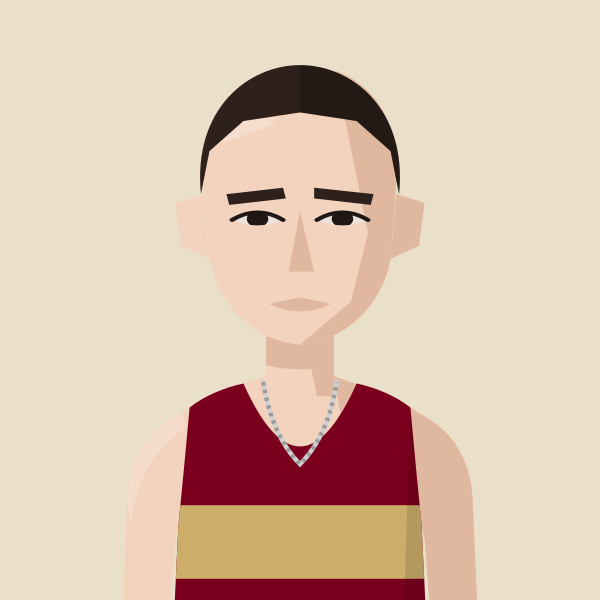
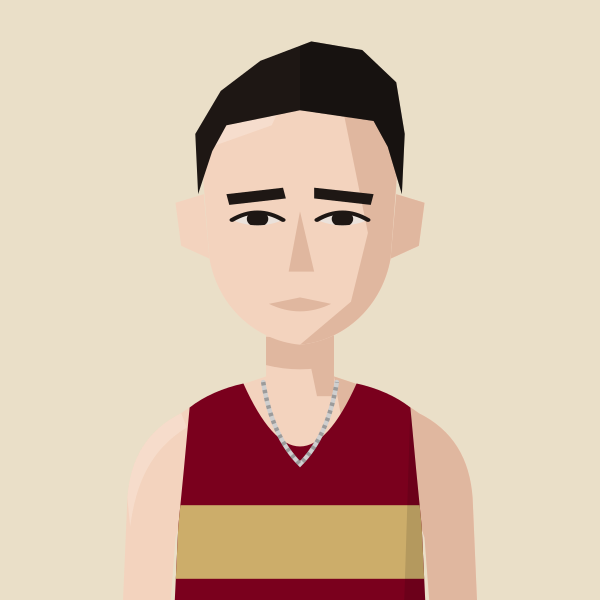
Eoin Molloy bigger hair; add Matthew Houchell, Ben Clarke, Benjamin Hilson
Claude-Session: https://claude.ai/code/session_01MgmDWhFqnSSnP4iBLKXUZC

Changed region(s): [[0.36, 0.06, 0.69, 0.33], [0.3, 0.18, 0.39, 0.33], [0.39, 0.18, 0.42, 0.21]]

diff --git a/files/index.html b/files/index.html
@@ -573,11 +573,11 @@ const LoadingVests=()=>{
 const PORTRAIT_CLUBS=new Set(['BEL','KEN','THH','HHH','H/W','SLH','G&G','RAN','C/C','DUL','HOL','WAL','CRO','WOK','E&E','FUL','SOC','BOX','BOH','AFD','SUR','MIT','REI','DMV','STR','W4H','W/W','K&P','S&D','SEL','DWN','FOT','LCR','ADV','262','MPA','BAC','OME','VAC','HER']);
 // Superstar portraits: every spelling of the athlete's name used in the data -> file in portraits/athletes/
 const PORTRAITS=(()=>{const m={};const add=(file,club,...names)=>names.forEach(n=>m[n.toLowerCase()]={file,club});
-add('kitty-shepherd-cross','BEL','Kitty Shepherd-Cross','Kitty Shepherd Cross');add('jack-kavanagh','HOL','Jack Kavanagh');add('sam-bramwell','HHH','Sam Bramwell');add('suzie-harvey','G&G','Suzie Harvey');add('freddie-hessian','H/W','Freddie Hessian');add('jamie-crowe','H/W','Jamie Crowe');add('sam-gebreselassie','BEL','Samuel Gebreselassie','Sam Gebreselassie');add('jack-brotchie','HHH','Jack Brotchie');add('jack-millar','THH','Jack Millar');add('lucy-jones','HHH','Lucy Jones');add('alex-milne','H/W','Alex Milne');add('josh-trigwell','BEL','Josh Trigwell');add('mack-downie','BEL','Mack Downey','Mack Downie');add('george-ogden','SLH','George Ogden');add('stuart-mccallum','H/W','Stuart McCallum');add('andrew-penney','H/W','Andrew Penney');add('jeremy-dempsey','THH','Jeremy Dempsey');add('henry-hart','BEL','Henry Hart');add('john-sanderson','G&G','John Sanderson');add('andy-fyfe','BEL','Andrew Fyfe','Andy Fyfe');add('saron-haileselase','BEL','Saron Haileselase');add('paskar-owor','BEL','Paskar Owor');add('ruby-carter','H/W','Ruby Carter');add('tom-foster','G&G','Tom Foster');add('mark-tennyson','G&G','Mark Tennyson');add('richard-ollington','THH','Richard Ollington');add('james-preston','BEL','James Preston');add('daniel-wolff','BEL','Daniel Wolff');add('jonny-scott','BEL','Jonathan Scott','Jonny Scott');add('josh-mitchell','BEL','Josh Mitchell');add('dylan-evans','BEL','Dylan Evans');add('morgan-roberts','HHH','Morgan Roberts');add('fred-slemeck','H/W','Fred Slemeck','Frederick Slemeck');add('matthew-edgar','BEL','Matthew Edgar');add('sam-sommerville','BEL','Sam Sommerville');add('richard-mcdowell','H/W','Richard McDowell');add('margaret-coogan','HHH','Margaret Coogan');add('owen-hind','KEN','Owen Hind','Owen Hinds');add('indy-barnes','THH','Indy Barnes');add('conall-mcnally','BEL','Conall McNally');add('rowan-board','HHH','Rowan Board');add('andy-weir','THH','Andy Weir','Andrew Weir');add('neil-chisholm','THH','Neil Chisholm','Neal Chisholm');add('pancho-panchev','H/W','Pancho Panchev');add('adrien-royer','G&G','Adrien Royer');add('rob-kelly','BEL','Robert Kelly','Rob Kelly');add('alex-janiaud','BEL','Alex Janiaud');add('tom-renshaw','THH','Thomas Renshaw','Tom Renshaw');add('jack-ramm','DUL','Jack Ramm');add('findlay-dyer','BEL','Findlay Dyer');add('james-blackwood','DUL','James Blackwood');add('sonny-nicoll','H/W','Sonny Nicoll');add('anisse-ismaili','THH','Anisse Ismaili');add('caleb-hathaway','HHH','Caleb Hathaway');add('barnaby-day','KEN','Barnaby Day');add('simon-coppard','BEL','Simon Coppard');add('ronan-tanguy','HHH','Ronan Tanguy');add('chris-threadgold','BEL','Chris Threadgold');add('mathew-speed','KEN','Mathew Speed','Matthew Speed');add('john-lethbridge','THH','John Lethbridge');add('oliver-fox','THH','Oliver Fox');add('jack-woods','HOL','Jack Woods');add('larry-ryan','BEL','Larry Ryan');add('ethan-mccolgan','THH','Ethan McColgan');add('jonathan-collier','KEN','Jonathan Collier');add('andrew-green','HOL','Andrew Green','Andy Green');add('fintan-pearce','BEL','Fintan Pearce');add('daniel-shaw','HHH','Daniel Shaw');add('sam-tyas','BEL','Sam Tyas');add('tom-austin','HHH','Tom Austin');add('ian-ellwood','KEN','Ian Ellwood');add('rian-mccawley','BEL','Rian McCawley');add('kieran-barnes','HOL','Kieran Barnes');add('ed-mallett','H/W','Ed Mallett','Edward Mallett');add('john-hutchins','WOK','John Hutchins');add('george-gathercole','THH','George Gathercole');add('nick-lightfoot','G&G','Nick Lightfoot');add('eoin-brady','H/W','Eoin Brady');add('james-stockings','H/W','James Stockings');add('jack-hobden','H/W','Jack Hobden');add('hugo-hewitt','HOL','Hugo Hewitt');add('zach-nolan','BEL','Zach Nolan');add('isaac-lutaya','H/W','Isaac Lutaya');add('oliver-young','BEL','Oliver Young');add('ben-racle','KEN','Ben Racle');add('josh-snow','BEL','Josh Snow');add('oliver-reynolds','BEL','Oliver Reynolds');add('aaron-wilson','DUL','Aaron Wilson');add('liam-burthem','HHH','Liam Burthem');add('dan-pettitt','KEN','Dan Pettitt');add('bob-holt','H/W','Bob Holt');add('dave-holt','H/W','Dave Holt');add('mike-fuller','H/W','Mike Fuller');add('gerry-north','BEL','Gerry North');add('steve-gardner','BEL','Steve Gardner');add('alex-yee','KEN','Alex Yee');add('phil-wicks','BEL','Phil Wicks');add('john-gilbert','KEN','John Gilbert','Jonathan Gilbert');add('chris-busaileh','KEN','Chris Busaileh');add('jim-allchin','KEN','Jim Allchin');add('finn-johnson','H/W','Finn Johnson');add('will-cockerell','BEL','William Cockerell','Will Cockerell');add('nick-goolab','BEL','Nick Goolab');add('arne-dumez','BEL','Arne Dumez');add('geoff-jerwood','HHH','Geoff Jerwood','G Jerwood');add('alex-lee','HHH','Alex Lee');add('benedict-whitby','HHH','Benedict Whitby');add('falilou-kebe','BEL','Falilou Kebe');add('jack-dickson','H/W','Jack Dickson');add('charlie-dickinson','BEL','Charlie Dickinson','C Dickinson');add('phil-swinburn','HOL','Phil Swinburn');add('rob-armstrong','DUL','Rob Armstrong');add('ashley-goncalves','HHH','Ashley Goncalves');add('eddie-jodrell','BEL','Eddie Jodrell');add('thomas-gandee','BEL','Thomas Gandee');add('max-milarvie','DUL','Max Milarvie');add('alex-lennon','BEL','Alex Lennon');add('james-hoad','THH','James Hoad');add('william-gardner','BEL','William Gardner');add('paddy-roddy','THH','Paddy Roddy','PADDY RoDDY');add('simon-waterhouse','BEL','Simon Waterhouse');add('conall-whelan','BEL','Conall Whelan');add('simon-williams','BEL','Simon Williams');add('christian-lee','HOL','Christian Lee');add('sean-cordon','DUL','Sean Cordon','sean cordon');add('michael-mccarthy','BEL','Michael McCarthy','Michael Mccarthy');add('jeff-cunningham','HHH','Jeff Cunningham');add('sam-peters','H/W','Sam Peters');add('ryan-hickey','HHH','Ryan Hickey');add('ben-scott','BEL','Ben Scott');add('tom-gifford','BEL','Tom Gifford');add('valentin-rigori','BEL','Valentin Rigori');add('david-grima','H/W','David Grima');add('deron-fagan','HHH','Deron Fagan');add('lee-lintern','G&G','Lee Lintern');add('ian-acreman','G&G','Ian Acreman');add('alex-howard','THH','Alex Howard');add('james-hancock','BEL','James Hancock');add('nick-morris','BEL','Nick Morris');add('richard-sun','H/W','Richard Sun');add('jonathan-cocker','G&G','Jonathan Cocker');add('isobel-hodder','BEL','Isobel Hodder');add('emma-howsham','G&G','Emma Howsham');add('eilidh-hide','BEL','Eilidh Hide');add('karen-xiang','BEL','Karen Xiang');add('claire-grima','H/W','Claire Grima');add('emma-gordon','BEL','Emma Gordon');add('emily-lowery','BEL','Emily Lowery');add('felicity-harrison','BEL','Felicity Harrison');add('alice-martin','HOL','Alice Martin');add('juliet-hodder','BEL','Juliet Hodder');add('abbie-bulbulian','C/C','Abbie Bulbulian');add('lara-mangan','BEL','Lara Mangan');add('clare-elms','KEN','Clare Elms');add('james-nutt','HHH','James Nutt');add('colin-high','G&G','Colin High');add('gavin-eccles','BEL','Gavin Eccles');add('nicholas-torry','KEN','Nicholas Torry');add('samuel-dames','KEN','Samuel Dames');add('tom-lole','BEL','Tom Lole');add('will-marshall','BEL','Will Marshall');add('stephen-mcleod','HHH','Stephen McLeod');add('rory-orsborn','HHH','Rory Orsborn');add('thomas-dugre','BEL','Thomas Dugre');add('arthur-peel','BEL','Arthur Peel');add('angus-lamb','BEL','Angus Lamb');add('andrew-warburton','HHH','Andrew Warburton');add('robert-laing','KEN','Robert Laing');add('toby-cooke','H/W','Toby Cooke');add('harrison-hayman','SLH','Harrison Hayman');add('edward-chuck','DUL','Edward Chuck');add('robert-sesemann','KEN','Robert Sesemann');add('eoin-molloy','BEL','Eoin Molloy');add('ollie-garrod','BEL','Ollie Garrod');add('ruby-whyte-wilding','BEL','Ruby Whyte-Wilding');add('sophie-tooley','HHH','Sophie Tooley');add('catherine-kandie','KEN','Catherine Kandie');add('olivia-stillman','HHH','Olivia Stillman');add('alex-gandee','BEL','Alex Gandee');add('billie-mcclosky','BEL','Billie McClosky');add('lisa-bailey','STR','Lisa Bailey');add('amy-clements','KEN','Amy Clements');add('bethanie-murray','THH','Bethanie Murray');add('evie-warren','G&G','Evie Warren');add('lucy-peters','BEL','Lucy Peters');add('emma-lord','H/W','Emma Lord');add('alice-bridger-morales','HHH','Alice Bridger Morales');add('emily-bradley','BEL','Emily Bradley');add('isabelle-pickett','G&G','Isabelle Pickett');add('felicity-hayward','THH','Felicity Hayward');add('gabriel-reynolds','HHH','Gabriel Reynolds');add('lara-bromilow','KEN','Lara Bromilow');add('megan-gildea','HHH','Megan Gildea');add('maeve-kenny','SLH','Maeve Kenny');add('emilie-arnoux','BEL','Emilie Arnoux');add('katie-good','KEN','Katie Good');add('ellie-freeden','KEN','Ellie Freeden');add('alice-smith','SLH','Alice Smith');add('florence-wiggins','THH','Florence Wiggins');add('alexandra-barbour','BEL','Alexandra Barbour');add('ella-king-powrie','BEL','Ella King Powrie');add('betsy-griffiths','RAN','Betsy Griffiths');add('nicola-douglas','STR','Nicola Douglas');add('georgie-furze','WOK','Georgie Furze');add('emma-rowland','BEL','Emma Rowland');add('charlotte-griffiths','BEL','Charlotte Griffiths');add('mary-james','SLH','Mary James');add('penny-oliver','BEL','Penny Oliver');add('ava-mcandie','H/W','Ava McAndie');add('bethan-goddard','BEL','Bethan Goddard');add('nikki-sturzaker','HHH','Nikki Sturzaker');add('hannah-english','HHH','Hannah English');add('clara-pettit','H/W','Clara Pettit');
+add('kitty-shepherd-cross','BEL','Kitty Shepherd-Cross','Kitty Shepherd Cross');add('jack-kavanagh','HOL','Jack Kavanagh');add('sam-bramwell','HHH','Sam Bramwell');add('suzie-harvey','G&G','Suzie Harvey');add('freddie-hessian','H/W','Freddie Hessian');add('jamie-crowe','H/W','Jamie Crowe');add('sam-gebreselassie','BEL','Samuel Gebreselassie','Sam Gebreselassie');add('jack-brotchie','HHH','Jack Brotchie');add('jack-millar','THH','Jack Millar');add('lucy-jones','HHH','Lucy Jones');add('alex-milne','H/W','Alex Milne');add('josh-trigwell','BEL','Josh Trigwell');add('mack-downie','BEL','Mack Downey','Mack Downie');add('george-ogden','SLH','George Ogden');add('stuart-mccallum','H/W','Stuart McCallum');add('andrew-penney','H/W','Andrew Penney');add('jeremy-dempsey','THH','Jeremy Dempsey');add('henry-hart','BEL','Henry Hart');add('john-sanderson','G&G','John Sanderson');add('andy-fyfe','BEL','Andrew Fyfe','Andy Fyfe');add('saron-haileselase','BEL','Saron Haileselase');add('paskar-owor','BEL','Paskar Owor');add('ruby-carter','H/W','Ruby Carter');add('tom-foster','G&G','Tom Foster');add('mark-tennyson','G&G','Mark Tennyson');add('richard-ollington','THH','Richard Ollington');add('james-preston','BEL','James Preston');add('daniel-wolff','BEL','Daniel Wolff');add('jonny-scott','BEL','Jonathan Scott','Jonny Scott');add('josh-mitchell','BEL','Josh Mitchell');add('dylan-evans','BEL','Dylan Evans');add('morgan-roberts','HHH','Morgan Roberts');add('fred-slemeck','H/W','Fred Slemeck','Frederick Slemeck');add('matthew-edgar','BEL','Matthew Edgar');add('sam-sommerville','BEL','Sam Sommerville');add('richard-mcdowell','H/W','Richard McDowell');add('margaret-coogan','HHH','Margaret Coogan');add('owen-hind','KEN','Owen Hind','Owen Hinds');add('indy-barnes','THH','Indy Barnes');add('conall-mcnally','BEL','Conall McNally');add('rowan-board','HHH','Rowan Board');add('andy-weir','THH','Andy Weir','Andrew Weir');add('neil-chisholm','THH','Neil Chisholm','Neal Chisholm');add('pancho-panchev','H/W','Pancho Panchev');add('adrien-royer','G&G','Adrien Royer');add('rob-kelly','BEL','Robert Kelly','Rob Kelly');add('alex-janiaud','BEL','Alex Janiaud');add('tom-renshaw','THH','Thomas Renshaw','Tom Renshaw');add('jack-ramm','DUL','Jack Ramm');add('findlay-dyer','BEL','Findlay Dyer');add('james-blackwood','DUL','James Blackwood');add('sonny-nicoll','H/W','Sonny Nicoll');add('anisse-ismaili','THH','Anisse Ismaili');add('caleb-hathaway','HHH','Caleb Hathaway');add('barnaby-day','KEN','Barnaby Day');add('simon-coppard','BEL','Simon Coppard');add('ronan-tanguy','HHH','Ronan Tanguy');add('chris-threadgold','BEL','Chris Threadgold');add('mathew-speed','KEN','Mathew Speed','Matthew Speed');add('john-lethbridge','THH','John Lethbridge');add('oliver-fox','THH','Oliver Fox');add('jack-woods','HOL','Jack Woods');add('larry-ryan','BEL','Larry Ryan');add('ethan-mccolgan','THH','Ethan McColgan');add('jonathan-collier','KEN','Jonathan Collier');add('andrew-green','HOL','Andrew Green','Andy Green');add('fintan-pearce','BEL','Fintan Pearce');add('daniel-shaw','HHH','Daniel Shaw');add('sam-tyas','BEL','Sam Tyas');add('tom-austin','HHH','Tom Austin');add('ian-ellwood','KEN','Ian Ellwood');add('rian-mccawley','BEL','Rian McCawley');add('kieran-barnes','HOL','Kieran Barnes');add('ed-mallett','H/W','Ed Mallett','Edward Mallett');add('john-hutchins','WOK','John Hutchins');add('george-gathercole','THH','George Gathercole');add('nick-lightfoot','G&G','Nick Lightfoot');add('eoin-brady','H/W','Eoin Brady');add('james-stockings','H/W','James Stockings');add('jack-hobden','H/W','Jack Hobden');add('hugo-hewitt','HOL','Hugo Hewitt');add('zach-nolan','BEL','Zach Nolan');add('isaac-lutaya','H/W','Isaac Lutaya');add('oliver-young','BEL','Oliver Young');add('ben-racle','KEN','Ben Racle');add('josh-snow','BEL','Josh Snow');add('oliver-reynolds','BEL','Oliver Reynolds');add('aaron-wilson','DUL','Aaron Wilson');add('liam-burthem','HHH','Liam Burthem');add('dan-pettitt','KEN','Dan Pettitt');add('bob-holt','H/W','Bob Holt');add('dave-holt','H/W','Dave Holt');add('mike-fuller','H/W','Mike Fuller');add('gerry-north','BEL','Gerry North');add('steve-gardner','BEL','Steve Gardner');add('alex-yee','KEN','Alex Yee');add('phil-wicks','BEL','Phil Wicks');add('john-gilbert','KEN','John Gilbert','Jonathan Gilbert');add('chris-busaileh','KEN','Chris Busaileh');add('jim-allchin','KEN','Jim Allchin');add('finn-johnson','H/W','Finn Johnson');add('will-cockerell','BEL','William Cockerell','Will Cockerell');add('nick-goolab','BEL','Nick Goolab');add('arne-dumez','BEL','Arne Dumez');add('geoff-jerwood','HHH','Geoff Jerwood','G Jerwood');add('alex-lee','HHH','Alex Lee');add('benedict-whitby','HHH','Benedict Whitby');add('falilou-kebe','BEL','Falilou Kebe');add('jack-dickson','H/W','Jack Dickson');add('charlie-dickinson','BEL','Charlie Dickinson','C Dickinson');add('phil-swinburn','HOL','Phil Swinburn');add('rob-armstrong','DUL','Rob Armstrong');add('ashley-goncalves','HHH','Ashley Goncalves');add('eddie-jodrell','BEL','Eddie Jodrell');add('thomas-gandee','BEL','Thomas Gandee');add('max-milarvie','DUL','Max Milarvie');add('alex-lennon','BEL','Alex Lennon');add('james-hoad','THH','James Hoad');add('william-gardner','BEL','William Gardner');add('paddy-roddy','THH','Paddy Roddy','PADDY RoDDY');add('simon-waterhouse','BEL','Simon Waterhouse');add('conall-whelan','BEL','Conall Whelan');add('simon-williams','BEL','Simon Williams');add('christian-lee','HOL','Christian Lee');add('sean-cordon','DUL','Sean Cordon','sean cordon');add('michael-mccarthy','BEL','Michael McCarthy','Michael Mccarthy');add('jeff-cunningham','HHH','Jeff Cunningham');add('sam-peters','H/W','Sam Peters');add('ryan-hickey','HHH','Ryan Hickey');add('ben-scott','BEL','Ben Scott');add('tom-gifford','BEL','Tom Gifford');add('valentin-rigori','BEL','Valentin Rigori');add('david-grima','H/W','David Grima');add('deron-fagan','HHH','Deron Fagan');add('lee-lintern','G&G','Lee Lintern');add('ian-acreman','G&G','Ian Acreman');add('alex-howard','THH','Alex Howard');add('james-hancock','BEL','James Hancock');add('nick-morris','BEL','Nick Morris');add('richard-sun','H/W','Richard Sun');add('jonathan-cocker','G&G','Jonathan Cocker');add('isobel-hodder','BEL','Isobel Hodder');add('emma-howsham','G&G','Emma Howsham');add('eilidh-hide','BEL','Eilidh Hide');add('karen-xiang','BEL','Karen Xiang');add('claire-grima','H/W','Claire Grima');add('emma-gordon','BEL','Emma Gordon');add('emily-lowery','BEL','Emily Lowery');add('felicity-harrison','BEL','Felicity Harrison');add('alice-martin','HOL','Alice Martin');add('juliet-hodder','BEL','Juliet Hodder');add('abbie-bulbulian','C/C','Abbie Bulbulian');add('lara-mangan','BEL','Lara Mangan');add('clare-elms','KEN','Clare Elms');add('james-nutt','HHH','James Nutt');add('colin-high','G&G','Colin High');add('gavin-eccles','BEL','Gavin Eccles');add('nicholas-torry','KEN','Nicholas Torry');add('samuel-dames','KEN','Samuel Dames');add('tom-lole','BEL','Tom Lole');add('will-marshall','BEL','Will Marshall');add('stephen-mcleod','HHH','Stephen McLeod');add('rory-orsborn','HHH','Rory Orsborn');add('thomas-dugre','BEL','Thomas Dugre');add('arthur-peel','BEL','Arthur Peel');add('angus-lamb','BEL','Angus Lamb');add('andrew-warburton','HHH','Andrew Warburton');add('robert-laing','KEN','Robert Laing');add('toby-cooke','H/W','Toby Cooke');add('harrison-hayman','SLH','Harrison Hayman');add('edward-chuck','DUL','Edward Chuck');add('robert-sesemann','KEN','Robert Sesemann');add('eoin-molloy','BEL','Eoin Molloy');add('ollie-garrod','BEL','Ollie Garrod');add('matthew-houchell','G&G','Matthew Houchell');add('ben-clarke','KEN','Ben Clarke');add('benjamin-hilson','HOL','Benjamin Hilson');add('ruby-whyte-wilding','BEL','Ruby Whyte-Wilding');add('sophie-tooley','HHH','Sophie Tooley');add('catherine-kandie','KEN','Catherine Kandie');add('olivia-stillman','HHH','Olivia Stillman');add('alex-gandee','BEL','Alex Gandee');add('billie-mcclosky','BEL','Billie McClosky');add('lisa-bailey','STR','Lisa Bailey');add('amy-clements','KEN','Amy Clements');add('bethanie-murray','THH','Bethanie Murray');add('evie-warren','G&G','Evie Warren');add('lucy-peters','BEL','Lucy Peters');add('emma-lord','H/W','Emma Lord');add('alice-bridger-morales','HHH','Alice Bridger Morales');add('emily-bradley','BEL','Emily Bradley');add('isabelle-pickett','G&G','Isabelle Pickett');add('felicity-hayward','THH','Felicity Hayward');add('gabriel-reynolds','HHH','Gabriel Reynolds');add('lara-bromilow','KEN','Lara Bromilow');add('megan-gildea','HHH','Megan Gildea');add('maeve-kenny','SLH','Maeve Kenny');add('emilie-arnoux','BEL','Emilie Arnoux');add('katie-good','KEN','Katie Good');add('ellie-freeden','KEN','Ellie Freeden');add('alice-smith','SLH','Alice Smith');add('florence-wiggins','THH','Florence Wiggins');add('alexandra-barbour','BEL','Alexandra Barbour');add('ella-king-powrie','BEL','Ella King Powrie');add('betsy-griffiths','RAN','Betsy Griffiths');add('nicola-douglas','STR','Nicola Douglas');add('georgie-furze','WOK','Georgie Furze');add('emma-rowland','BEL','Emma Rowland');add('charlotte-griffiths','BEL','Charlotte Griffiths');add('mary-james','SLH','Mary James');add('penny-oliver','BEL','Penny Oliver');add('ava-mcandie','H/W','Ava McAndie');add('bethan-goddard','BEL','Bethan Goddard');add('nikki-sturzaker','HHH','Nikki Sturzaker');add('hannah-english','HHH','Hannah English');add('clara-pettit','H/W','Clara Pettit');
 return m;})();
 // Athlete header figure: superstar portrait if we have one, else a grey runner in the club vest, else the plain vest icon
 // Changes whenever any portrait changes (set by tools/build_og.py), so browsers fetch fresh images instead of old cached ones
-const PORTRAIT_V='b81003d8';
+const PORTRAIT_V='03ebcfb5';
 const AthletePortrait=({name,club,w,fill,onClick})=>{const[failed,setFailed]=useState(false);const pk=PORTRAITS[normalizeNameForCompare(name).replace(/\s*\([^)]*\)$/,'')];const file=pk&&pk.club===club?pk.file:null;const src=file?`/portraits/athletes/${file}.svg?v=${PORTRAIT_V}`:PORTRAIT_CLUBS.has(club)?`/portraits/clubs/${club.replace(/\//g,'').replace(/&/g,'and')}.svg?v=${PORTRAIT_V}`:null;if(!src||failed)return<div onClick={onClick} className={onClick?'cursor-pointer':''}><ClubShield club={club} size={w}/></div>;const h=Math.round(w*148/126),ih=Math.round(w*1.4);if(fill)return<div onClick={onClick} className="cursor-pointer" style={{alignSelf:'stretch',minHeight:h,aspectRatio:'126 / 148',flexShrink:0,position:'relative',borderRadius:4,overflow:'hidden'}}><img src={src} alt={file?`Portrait of ${name.replace(/\s*\([^)]*\)$/,'')}`:`Runner in ${CLUBS[club]?.name||club} vest`} style={{position:'absolute',top:0,left:0,display:'block',width:'100%',height:'auto'}} onError={()=>setFailed(true)}/></div>;return<div style={{width:w,height:h,borderRadius:4,overflow:'hidden',flexShrink:0}}><img src={src} alt={file?`Portrait of ${name.replace(/\s*\([^)]*\)$/,'')}`:`Runner in ${CLUBS[club]?.name||club} vest`} width={w} height={ih} style={{display:'block',width:w,height:ih}} onError={()=>setFailed(true)}/></div>;};
 const getClubVestSvg=(club)=>{
   const p="M3 0 L6 0 Q7 4 10 5 Q13 4 14 0 L17 0 L17 20 L3 20 Z";

diff --git a/tools/gen_portraits.py b/tools/gen_portraits.py
@@ -621,8 +621,13 @@ W433 += [
 ]
 W433 += [
  ("robert-sesemann","KEN","Robert Sesemann",dict(skin=1,hair="tousled",hair_colour="#5A3E2A",facial="littletache"),"tousled brown hair, little moustache"),
- ("eoin-molloy","BEL","Eoin Molloy",dict(skin=1,hair="crop",hair_colour="#2E211B",necklace="#CFCFCF"),"short dark hair, chain necklace"),
+ ("eoin-molloy","BEL","Eoin Molloy",dict(skin=1,hair="quiff",hair_colour="#1E1714",necklace="#CFCFCF"),"thick dark swept-up hair, chain necklace"),
  ("ollie-garrod","BEL","Ollie Garrod",dict(skin=1,hair="crop",hair_colour="#8E6643",cap="#E8E6E1",glasses=True,facial="stubble"),"white cap, glasses, stubble"),
+]
+W433 += [
+ ("matthew-houchell","G&G","Matthew Houchell",dict(skin=1,hair="crop",hair_colour="#5A3E2A",facial="stubble"),"short brown hair, stubble"),
+ ("ben-clarke","KEN","Ben Clarke",dict(skin=1,hair="tousled",hair_colour="#5A3E2A",facial="littletache"),"wavy brown hair, little moustache"),
+ ("benjamin-hilson","HOL","Benjamin Hilson",dict(skin=1,hair="messyfringe",hair_colour="#5A3E2A"),"messy brown fringe"),
 ]
 for slug, club, name, kw, alt in W433:
     save(slug, figure(club, **kw))
